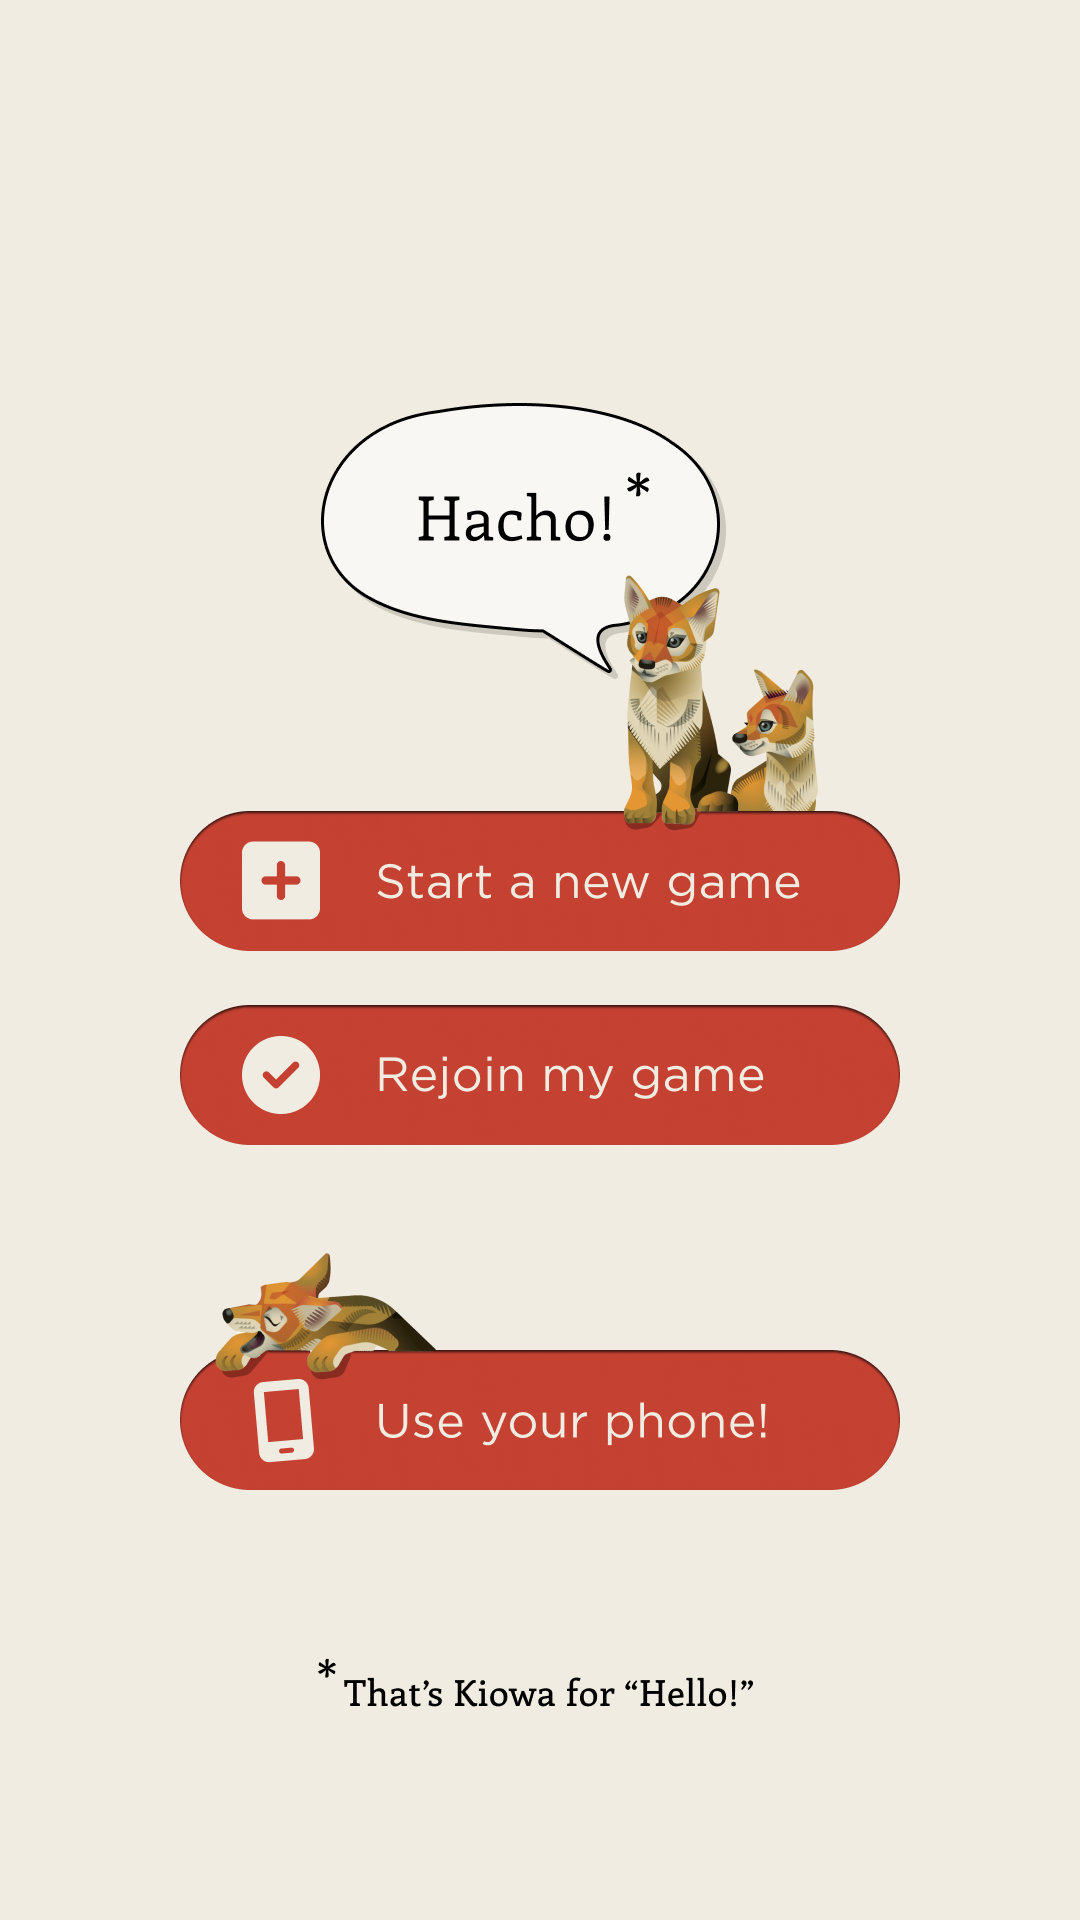
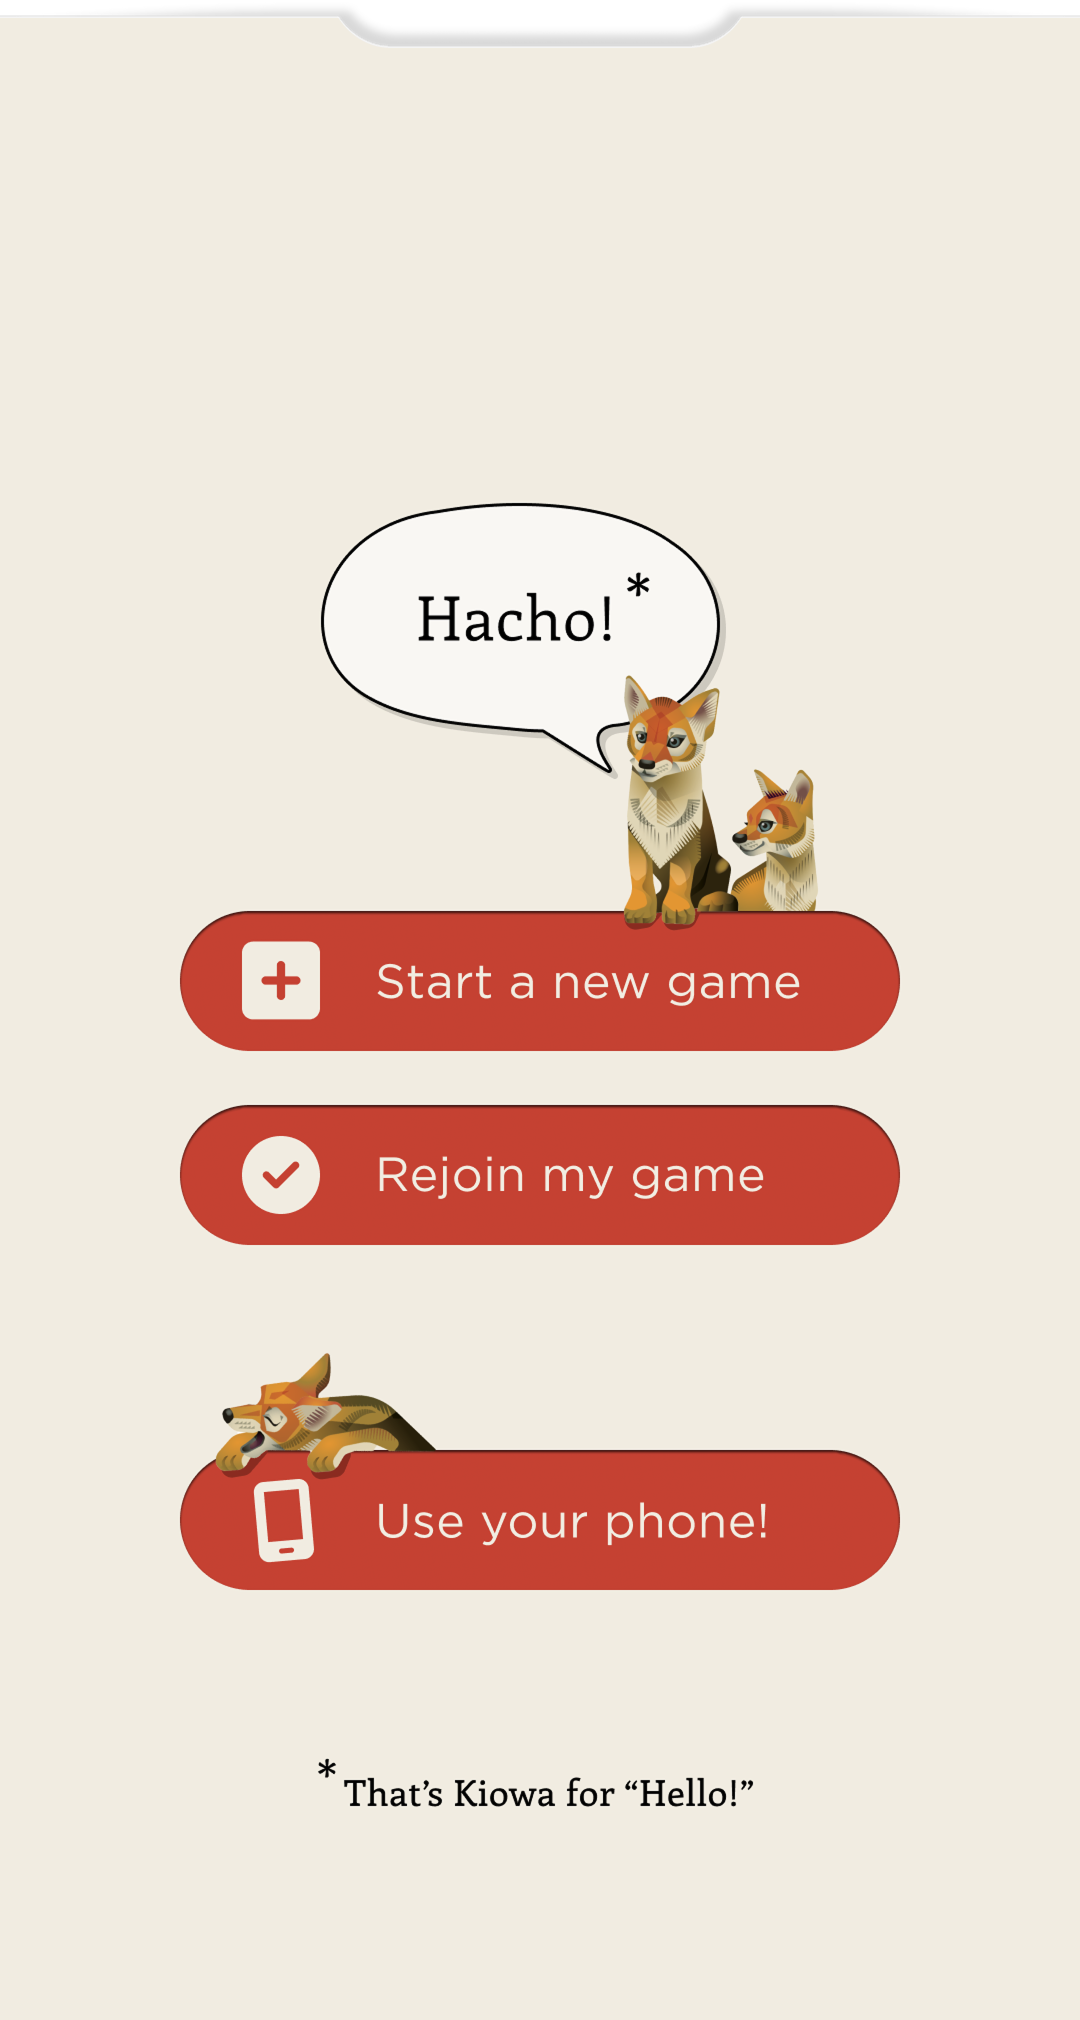
Replace start screen, add transition from start screen to create new user

diff --git a/public/js/script.js b/public/js/script.js
@@ -531,8 +531,11 @@ function updateStatusWheel(wheelText) {
 }
 
 
-function hideStartScreen() {
-  document.getElementById("start-screen").style.display = "none";
+function lowerStartScreen() {
+  document.getElementById("start-screen").style.transition =
+    "transform 1800ms ease-in";
+  document.getElementById("start-screen").style.transform =
+    "translateY(1920px)";
 }
 
 function showCreateNewUserScreen() {

diff --git a/public/css/style.css b/public/css/style.css
@@ -77,7 +77,7 @@ button {
 
 #start-screen {
   position: absolute;
-  top: 0;
+  bottom: 0; /* Start screen has a tab on top that extends out of view */
   left: 0;
   z-index: 100;
 }
